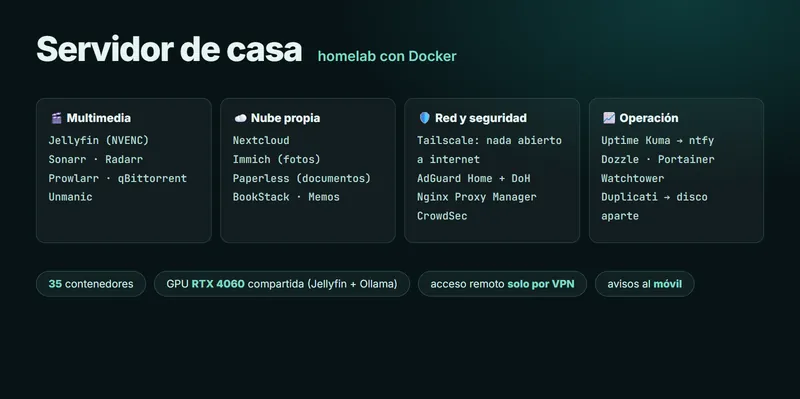
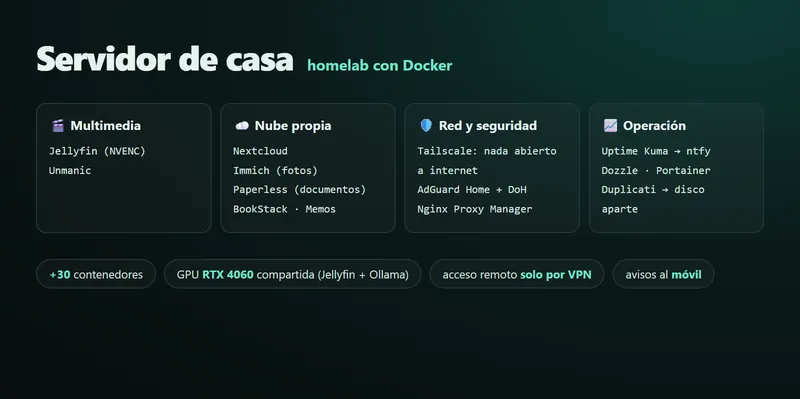
Proyectos nuevos al día: Vivy, servidor de casa y Estudio UNED
- Vivy: datos actuales (47 habilidades, más de 1.500 tests), Groq como
  cerebro con internet y Ollama sin él, sin WhatsApp (está apagado).
- Servidor: sin CrowdSec ni Watchtower (se retiran) y sin la pila de
  descargas; más de 30 contenedores y el modo juego.
- Estudio UNED: es pública, así que fuera el aviso de privado y botón a
  la guía (estudio-uned-ia.vercel.app); 58 temas y 490 preguntas.
- Imágenes nuevas de las tres y Estudio UNED en los avisos de Discord.

Claude-Session: https://claude.ai/code/session_015Cm1mkctHGWNTwWV23Tuxb

diff --git a/js/modules/translations.js b/js/modules/translations.js
@@ -101,15 +101,14 @@ export const translations = {
             "fourth-project-description": "<p>Web para no perder ninguna beca en Andalucía: filtros por nivel y plazo, búsquedas guardadas, favoritos y alertas por correo antes de que cierre el plazo. Tiene panel de administración y está publicada en beta.</p><ul style=\"margin-top: 0.5rem; margin-left: 1.2rem; list-style-type: disc; display: flex; flex-direction: column; gap: 0.3rem;\"><li><strong>Backend:</strong> Node.js + Express en Vercel, con tareas programadas para las alertas.</li><li><strong>Datos y usuarios:</strong> Supabase (PostgreSQL con RLS) y sesión en cookies httpOnly, nunca en el navegador.</li><li><strong>Seguridad:</strong> límite de peticiones, protección CSRF y avisos de errores a Discord.</li><li><strong>Legal:</strong> cookies con consentimiento real (analítica y anuncios solo tras aceptar).</li></ul>",
             "fifth-project-title": "Vivy - Asistente de voz con IA local",
             "fifth-project-date": "Iniciado en Septiembre 2026",
-            "fifth-project-description": "<p>Mi asistente personal por voz, al estilo de Jarvis: controla el PC y el servidor de casa, toma notas en Obsidian, pone música, avisa por WhatsApp y sigue funcionando sin internet gracias a modelos que corren en mi propia GPU.</p><ul style=\"margin-top: 0.5rem; margin-left: 1.2rem; list-style-type: disc; display: flex; flex-direction: column; gap: 0.3rem;\"><li><strong>Enrutado:</strong> un enrutador semántico con embeddings decide la habilidad en 0,07 s sin llamar a un LLM (96 % de acierto en un banco de pruebas propio).</li><li><strong>IA:</strong> Whisper para la voz y Ollama en local; Groq y Gemini solo como apoyo.</li><li><strong>Calidad:</strong> más de 1.100 tests automáticos y confirmación hablada antes de cualquier acción peligrosa.</li></ul>",
+            "fifth-project-description": "<p>Mi asistente personal por voz, al estilo de Jarvis: controla el PC y el servidor de casa, toma notas en Obsidian, pone música, temporizadores y recordatorios, y sigue funcionando sin internet gracias a modelos que corren en mi propia GPU. Una tablet le sirve de pantalla, con una cara que reacciona a lo que pasa.</p><ul style=\"margin-top: 0.5rem; margin-left: 1.2rem; list-style-type: disc; display: flex; flex-direction: column; gap: 0.3rem;\"><li><strong>Enrutado:</strong> un enrutador semántico con embeddings locales elige entre sus 47 habilidades sin llamar a un LLM (96 % de acierto en un banco de pruebas propio).</li><li><strong>IA:</strong> Whisper en local para entender la voz; Groq en la nube cuando hay internet y Ollama en la propia GPU cuando no.</li><li><strong>Calidad:</strong> más de 1.500 tests automáticos y confirmación hablada antes de cualquier acción peligrosa.</li></ul>",
             "fifth-project-warning": "🔒 Repositorio privado: enseño el código y una demo en directo en entrevista.",
             "sixth-project-title": "Servidor de casa (homelab)",
             "sixth-project-date": "Iniciado en Julio 2026",
-            "sixth-project-description": "<p>Mi propio servidor con 35 contenedores Docker: nube personal, fotos, documentos, multimedia y monitorización. Lo administro como si fuera producción: copias de seguridad en un disco aparte, avisos al móvil cuando algo cae y acceso remoto solo por VPN.</p><ul style=\"margin-top: 0.5rem; margin-left: 1.2rem; list-style-type: disc; display: flex; flex-direction: column; gap: 0.3rem;\"><li><strong>Infraestructura:</strong> Docker Compose, Tailscale, AdGuard Home con DNS cifrado y Nginx Proxy Manager.</li><li><strong>Observabilidad:</strong> Uptime Kuma con avisos por ntfy, Dozzle y Portainer.</li><li><strong>Rendimiento:</strong> la GPU se comparte entre Jellyfin (transcodificación NVENC) y los modelos de IA.</li></ul>",
-            "seventh-project-title": "Estudio UNED - App para preparar la carrera de IA",
+            "sixth-project-description": "<p>Mi propio servidor con más de 30 contenedores Docker: nube personal, fotos, documentos, multimedia y monitorización. Lo administro como si fuera producción: copias de seguridad en un disco aparte, avisos al móvil cuando algo cae y acceso remoto solo por VPN.</p><ul style=\"margin-top: 0.5rem; margin-left: 1.2rem; list-style-type: disc; display: flex; flex-direction: column; gap: 0.3rem;\"><li><strong>Infraestructura:</strong> Docker Compose, Tailscale, AdGuard Home con DNS cifrado y Nginx Proxy Manager.</li><li><strong>Observabilidad:</strong> Uptime Kuma con avisos por ntfy, Dozzle y Portainer.</li><li><strong>Rendimiento:</strong> la GPU se comparte entre Jellyfin (transcodificación NVENC) y los modelos de IA, y al abrir un juego los servicios pesados se apartan solos y devuelven la memoria.</li></ul>",
+            "seventh-project-title": "Estudio UNED - Guía de estudio del Grado en IA",
             "seventh-project-date": "Iniciado en Septiembre 2026",
-            "seventh-project-description": "<p>La herramienta con la que preparo el Grado en Ingeniería de IA de la UNED: cada asignatura con el formato real de su examen, repetición espaciada, simulacros con la misma penalización y calculadora de nota según la guía docente.</p><ul style=\"margin-top: 0.5rem; margin-left: 1.2rem; list-style-type: disc; display: flex; flex-direction: column; gap: 0.3rem;\"><li><strong>Frontend:</strong> Next.js, React y TypeScript; instalable en el móvil (PWA).</li><li><strong>Contenido:</strong> más de 250 preguntas propias, cada una con la explicación de por qué fallan las otras opciones.</li><li><strong>Calidad:</strong> tests con Vitest y CI en GitHub Actions.</li></ul>",
-            "seventh-project-warning": "🔒 Repositorio privado: es una herramienta personal de estudio."
+            "seventh-project-description": "<p>La guía con la que preparo el Grado en Ingeniería en IA de la UNED, publicada para que la usen también mis compañeros: teoría de cada tema con ejemplos de la vida real, preguntas con el formato real de cada examen, simulacros con la misma penalización, repetición espaciada y calculadora de nota según la guía docente.</p><ul style=\"margin-top: 0.5rem; margin-left: 1.2rem; list-style-type: disc; display: flex; flex-direction: column; gap: 0.3rem;\"><li><strong>Frontend:</strong> Next.js, React y TypeScript, publicada en Vercel e instalable en el móvil (PWA).</li><li><strong>Contenido:</strong> teoría de los 58 temas y 490 preguntas propias, cada una explicando por qué fallan las otras opciones.</li><li><strong>Calidad:</strong> tests con Vitest y CI en GitHub Actions.</li></ul>"
         },
         "contact": {
             "title": "Contacto",
@@ -229,15 +228,14 @@ export const translations = {
             "fourth-project-description": "<p>A website so you never miss a scholarship in Andalusia: filters by level and deadline, saved searches, favourites and email alerts before the deadline closes. It has an admin panel and is live in beta.</p><ul style=\"margin-top: 0.5rem; margin-left: 1.2rem; list-style-type: disc; display: flex; flex-direction: column; gap: 0.3rem;\"><li><strong>Backend:</strong> Node.js + Express on Vercel, with scheduled jobs for the alerts.</li><li><strong>Data and users:</strong> Supabase (PostgreSQL with RLS) and sessions in httpOnly cookies, never in the browser.</li><li><strong>Security:</strong> rate limiting, CSRF protection and error alerts to Discord.</li><li><strong>Legal:</strong> real cookie consent (analytics and ads only after accepting).</li></ul>",
             "fifth-project-title": "Vivy - Voice assistant with local AI",
             "fifth-project-date": "Started in September 2026",
-            "fifth-project-description": "<p>My personal voice assistant, Jarvis-style: it controls my PC and home server, takes notes in Obsidian, plays music, sends WhatsApp alerts and keeps working offline thanks to models running on my own GPU.</p><ul style=\"margin-top: 0.5rem; margin-left: 1.2rem; list-style-type: disc; display: flex; flex-direction: column; gap: 0.3rem;\"><li><strong>Routing:</strong> a semantic router with embeddings picks the skill in 0.07 s without calling an LLM (96% accuracy on my own test bench).</li><li><strong>AI:</strong> Whisper for speech and Ollama locally; Groq and Gemini only as backup.</li><li><strong>Quality:</strong> over 1,100 automated tests and spoken confirmation before any dangerous action.</li></ul>",
+            "fifth-project-description": "<p>My personal voice assistant, Jarvis-style: it controls my PC and home server, takes notes in Obsidian, plays music, sets timers and reminders, and keeps working offline thanks to models running on my own GPU. A tablet works as its screen, with a face that reacts to what is going on.</p><ul style=\"margin-top: 0.5rem; margin-left: 1.2rem; list-style-type: disc; display: flex; flex-direction: column; gap: 0.3rem;\"><li><strong>Routing:</strong> a semantic router with local embeddings picks one of its 47 skills without calling an LLM (96% accuracy on my own test bench).</li><li><strong>AI:</strong> local Whisper for speech; Groq in the cloud when online and Ollama on my own GPU when offline.</li><li><strong>Quality:</strong> over 1,500 automated tests and spoken confirmation before any dangerous action.</li></ul>",
             "fifth-project-warning": "🔒 Private repository: I show the code and a live demo in interviews.",
             "sixth-project-title": "Home server (homelab)",
             "sixth-project-date": "Started in July 2026",
-            "sixth-project-description": "<p>My own server running 35 Docker containers: personal cloud, photos, documents, media and monitoring. I run it like production: backups on a separate disk, phone alerts when something goes down and remote access only through a VPN.</p><ul style=\"margin-top: 0.5rem; margin-left: 1.2rem; list-style-type: disc; display: flex; flex-direction: column; gap: 0.3rem;\"><li><strong>Infrastructure:</strong> Docker Compose, Tailscale, AdGuard Home with encrypted DNS and Nginx Proxy Manager.</li><li><strong>Observability:</strong> Uptime Kuma with ntfy alerts, Dozzle and Portainer.</li><li><strong>Performance:</strong> the GPU is shared between Jellyfin (NVENC transcoding) and the AI models.</li></ul>",
-            "seventh-project-title": "UNED Study - App to prepare my AI degree",
+            "sixth-project-description": "<p>My own server running over 30 Docker containers: personal cloud, photos, documents, media and monitoring. I run it like production: backups on a separate disk, phone alerts when something goes down and remote access only through a VPN.</p><ul style=\"margin-top: 0.5rem; margin-left: 1.2rem; list-style-type: disc; display: flex; flex-direction: column; gap: 0.3rem;\"><li><strong>Infrastructure:</strong> Docker Compose, Tailscale, AdGuard Home with encrypted DNS and Nginx Proxy Manager.</li><li><strong>Observability:</strong> Uptime Kuma with ntfy alerts, Dozzle and Portainer.</li><li><strong>Performance:</strong> the GPU is shared between Jellyfin (NVENC transcoding) and the AI models, and when a game starts the heavy services step aside and give the memory back.</li></ul>",
+            "seventh-project-title": "UNED Study - Study guide for my AI degree",
             "seventh-project-date": "Started in September 2026",
-            "seventh-project-description": "<p>The tool I use to prepare the AI Engineering degree at UNED: each subject with its real exam format, spaced repetition, mock exams with the same penalty and a grade calculator based on the official course guide.</p><ul style=\"margin-top: 0.5rem; margin-left: 1.2rem; list-style-type: disc; display: flex; flex-direction: column; gap: 0.3rem;\"><li><strong>Frontend:</strong> Next.js, React and TypeScript; installable on mobile (PWA).</li><li><strong>Content:</strong> over 250 original questions, each explaining why the other options are wrong.</li><li><strong>Quality:</strong> Vitest tests and CI on GitHub Actions.</li></ul>",
-            "seventh-project-warning": "🔒 Private repository: it is a personal study tool."
+            "seventh-project-description": "<p>The guide I use to prepare the AI Engineering degree at UNED, published so my classmates can use it too: theory for every topic with real-life examples, questions in each exam's real format, mock exams with the same penalty, spaced repetition and a grade calculator based on the official course guide.</p><ul style=\"margin-top: 0.5rem; margin-left: 1.2rem; list-style-type: disc; display: flex; flex-direction: column; gap: 0.3rem;\"><li><strong>Frontend:</strong> Next.js, React and TypeScript, deployed on Vercel and installable on mobile (PWA).</li><li><strong>Content:</strong> theory for all 58 topics and 490 original questions, each explaining why the other options are wrong.</li><li><strong>Quality:</strong> Vitest tests and CI on GitHub Actions.</li></ul>"
         },
         "contact": {
             "title": "Contact",

diff --git a/index.html b/index.html
@@ -718,7 +718,7 @@
                         <h2 class="card__title" data-section="projects" data-value="fifth-project-title">Vivy - Asistente de voz con IA local</h2>
                         <span class="project-date" data-section="projects" data-value="fifth-project-date">Iniciado en Septiembre 2026</span>
                     </div>
-                    <div class="card__text" data-section="projects" data-value="fifth-project-description"><p>Mi asistente personal por voz, al estilo de Jarvis: controla el PC y el servidor de casa, toma notas en Obsidian, pone música, avisa por WhatsApp y sigue funcionando sin internet gracias a modelos que corren en mi propia GPU.</p><ul style="margin-top: 0.5rem; margin-left: 1.2rem; list-style-type: disc; display: flex; flex-direction: column; gap: 0.3rem;"><li><strong>Enrutado:</strong> un enrutador semántico con embeddings decide la habilidad en 0,07 s sin llamar a un LLM (96 % de acierto en un banco de pruebas propio).</li><li><strong>IA:</strong> Whisper para la voz y Ollama en local; Groq y Gemini solo como apoyo.</li><li><strong>Calidad:</strong> más de 1.100 tests automáticos y confirmación hablada antes de cualquier acción peligrosa.</li></ul></div>
+                    <div class="card__text" data-section="projects" data-value="fifth-project-description"><p>Mi asistente personal por voz, al estilo de Jarvis: controla el PC y el servidor de casa, toma notas en Obsidian, pone música, temporizadores y recordatorios, y sigue funcionando sin internet gracias a modelos que corren en mi propia GPU. Una tablet le sirve de pantalla, con una cara que reacciona a lo que pasa.</p><ul style="margin-top: 0.5rem; margin-left: 1.2rem; list-style-type: disc; display: flex; flex-direction: column; gap: 0.3rem;"><li><strong>Enrutado:</strong> un enrutador semántico con embeddings locales elige entre sus 47 habilidades sin llamar a un LLM (96 % de acierto en un banco de pruebas propio).</li><li><strong>IA:</strong> Whisper en local para entender la voz; Groq en la nube cuando hay internet y Ollama en la propia GPU cuando no.</li><li><strong>Calidad:</strong> más de 1.500 tests automáticos y confirmación hablada antes de cualquier acción peligrosa.</li></ul></div>
                     <div class="buttons">
 
                     </div>
@@ -747,7 +747,7 @@
                         <h2 class="card__title" data-section="projects" data-value="sixth-project-title">Servidor de casa (homelab)</h2>
                         <span class="project-date" data-section="projects" data-value="sixth-project-date">Iniciado en Julio 2026</span>
                     </div>
-                    <div class="card__text" data-section="projects" data-value="sixth-project-description"><p>Mi propio servidor con 35 contenedores Docker: nube personal, fotos, documentos, multimedia y monitorización. Lo administro como si fuera producción: copias de seguridad en un disco aparte, avisos al móvil cuando algo cae y acceso remoto solo por VPN.</p><ul style="margin-top: 0.5rem; margin-left: 1.2rem; list-style-type: disc; display: flex; flex-direction: column; gap: 0.3rem;"><li><strong>Infraestructura:</strong> Docker Compose, Tailscale, AdGuard Home con DNS cifrado y Nginx Proxy Manager.</li><li><strong>Observabilidad:</strong> Uptime Kuma con avisos por ntfy, Dozzle y Portainer.</li><li><strong>Rendimiento:</strong> la GPU se comparte entre Jellyfin (transcodificación NVENC) y los modelos de IA.</li></ul></div>
+                    <div class="card__text" data-section="projects" data-value="sixth-project-description"><p>Mi propio servidor con más de 30 contenedores Docker: nube personal, fotos, documentos, multimedia y monitorización. Lo administro como si fuera producción: copias de seguridad en un disco aparte, avisos al móvil cuando algo cae y acceso remoto solo por VPN.</p><ul style="margin-top: 0.5rem; margin-left: 1.2rem; list-style-type: disc; display: flex; flex-direction: column; gap: 0.3rem;"><li><strong>Infraestructura:</strong> Docker Compose, Tailscale, AdGuard Home con DNS cifrado y Nginx Proxy Manager.</li><li><strong>Observabilidad:</strong> Uptime Kuma con avisos por ntfy, Dozzle y Portainer.</li><li><strong>Rendimiento:</strong> la GPU se comparte entre Jellyfin (transcodificación NVENC) y los modelos de IA, y al abrir un juego los servicios pesados se apartan solos y devuelven la memoria.</li></ul></div>
                     <div class="buttons">
 
                     </div>
@@ -770,16 +770,14 @@
                         <span class="project__tag">#Vitest</span>
                     </div>
                     <div class="project-header">
-                        <h2 class="card__title" data-section="projects" data-value="seventh-project-title">Estudio UNED - App para preparar la carrera de IA</h2>
+                        <h2 class="card__title" data-section="projects" data-value="seventh-project-title">Estudio UNED - Guía de estudio del Grado en IA</h2>
                         <span class="project-date" data-section="projects" data-value="seventh-project-date">Iniciado en Septiembre 2026</span>
                     </div>
-                    <div class="card__text" data-section="projects" data-value="seventh-project-description"><p>La herramienta con la que preparo el Grado en Ingeniería de IA de la UNED: cada asignatura con el formato real de su examen, repetición espaciada, simulacros con la misma penalización y calculadora de nota según la guía docente.</p><ul style="margin-top: 0.5rem; margin-left: 1.2rem; list-style-type: disc; display: flex; flex-direction: column; gap: 0.3rem;"><li><strong>Frontend:</strong> Next.js, React y TypeScript; instalable en el móvil (PWA).</li><li><strong>Contenido:</strong> más de 250 preguntas propias, cada una con la explicación de por qué fallan las otras opciones.</li><li><strong>Calidad:</strong> tests con Vitest y CI en GitHub Actions.</li></ul></div>
+                    <div class="card__text" data-section="projects" data-value="seventh-project-description"><p>La guía con la que preparo el Grado en Ingeniería en IA de la UNED, publicada para que la usen también mis compañeros: teoría de cada tema con ejemplos de la vida real, preguntas con el formato real de cada examen, simulacros con la misma penalización, repetición espaciada y calculadora de nota según la guía docente.</p><ul style="margin-top: 0.5rem; margin-left: 1.2rem; list-style-type: disc; display: flex; flex-direction: column; gap: 0.3rem;"><li><strong>Frontend:</strong> Next.js, React y TypeScript, publicada en Vercel e instalable en el móvil (PWA).</li><li><strong>Contenido:</strong> teoría de los 58 temas y 490 preguntas propias, cada una explicando por qué fallan las otras opciones.</li><li><strong>Calidad:</strong> tests con Vitest y CI en GitHub Actions.</li></ul></div>
                     <div class="buttons">
-
+                        <a href="https://estudio-uned-ia.vercel.app/" class="button--primary"
+                            target="_blank" rel="noopener" data-project="estudio-uned" data-project-action="web">Web</a>
                     </div>
-                    <p class="card__text card__text--warning" style="margin-top: 1rem; font-size: 0.85rem; color: var(--text-color); opacity: 0.8; font-style: italic;" data-section="projects" data-value="seventh-project-warning">
-                        🔒 Repositorio privado: es una herramienta personal de estudio.
-                    </p>
                 </div>
             </article>
 

diff --git a/api/log-project.js b/api/log-project.js
@@ -66,7 +66,8 @@ export default async function handler(req, res) {
         portfolio: { label: 'Portfolio', emoji: '🎨', color: 0x9b59b6 },
         vesta:     { label: 'Proyecto Vesta', emoji: '🔥', color: 0xe67e22 },
         carniceria: { label: 'Carnicería Raúl Oliver', emoji: '🥩', color: 0xc0392b },
-        becamax:   { label: 'BecaMax', emoji: '🎓', color: 0x10b981 }
+        becamax:   { label: 'BecaMax', emoji: '🎓', color: 0x10b981 },
+        'estudio-uned': { label: 'Estudio UNED', emoji: '📚', color: 0x0b5d4b }
     };
     const meta = projectMeta[project] || { label: project || 'Proyecto Desconocido', emoji: '💻', color: 0x95a5a6 };
 
